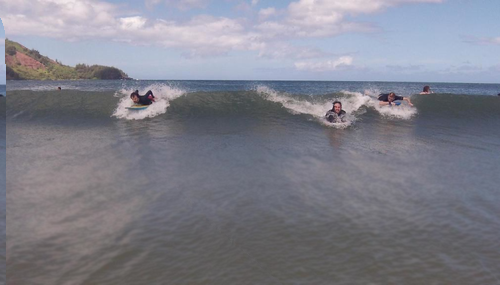
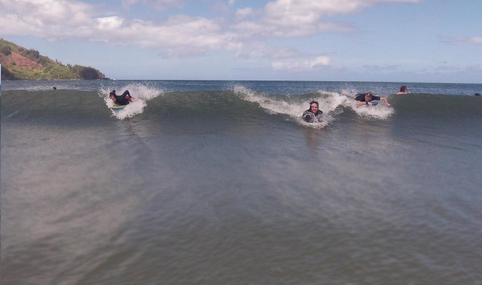
successfully extracted seams, more tests needed

diff --git a/extraction.js b/extraction.js
@@ -35,8 +35,11 @@ module.exports = (function () {
     var resultimg = new png({filterType: 4});
     resultimg.height = img.height;
     resultimg.width = img.width;
+    console.log(img.width, img.height);
+    console.log(img.data.length);
     var data = img.data;
     seam.forEach(function(x, y){
+      console.log(x, y, indexFromCoords(x,y,img.width,img.height));
       data[indexFromCoords(x,y,img.width,img.height)] = 255;
       data[indexFromCoords(x,y,img.width,img.height)] = 0;
       data[indexFromCoords(x,y,img.width,img.height)] = 0;
@@ -60,14 +63,23 @@ module.exports = (function () {
         currentimg.data.push(imgdata.data[i]);
         seamimg.data.push(255);
       }
+      // console.log("CURRENTIMG DAT  A LENGTH: " + currentimg.data.length);
       for(var i = 0; i != numseams; i++){
+        // console.log("LOOP START");
+
         // get seam for current image
         currentmap = getEnergyMap(currentimg);
-        var seam = self.findVerticalSeam(currentmap, imgdata);
+        // console.log("CURRENTIMG DATA LENGTH: " + currentimg.data.length);
+
+        var seam = self.findVerticalSeam(currentmap, currentimg);
+        // console.log("CURRENTIMG DATA LENGTH: " + currentimg.data.length);
+
         // get new image without seam, write seam into seam image
-        console.log(currentimg.width, seamimg.width);
+        // console.log(currentimg.width, seamimg.width);
         extractSeam(currentimg, seam, seamimg, 'v');
-        console.log(currentimg.width, seamimg.width);
+        // console.log("CURRENTIMG DATA LENGTH: " + currentimg.data.length);
+        // // console.log(currentimg.width, seamimg.width);
+        // console.log("LOOP END");
       }
       currentimg.pack().pipe(fs.createWriteStream(outpath || 'out.png'));
       seamimg.pack().pipe(fs.createWriteStream(seamsout || 'seamsout.png'));
@@ -101,17 +113,20 @@ module.exports = (function () {
         } else {
           var best = {sum: -1, dir : null};
           for(var d = -1; d != 2; d++){
-            var current = map[indexFromCoords(x, y, w, h) >> 2] +
-                      map[indexFromCoords(x+d, y-1, w, h) >> 2];
-            if(current < best.sum || best.sum < 0){
-              best.sum = current;
-              best.dir = d;
-            }
+            // if((x > 0 && d !== -1) || (x < w-1 && d !== 1)){
+              var current = map[indexFromCoords(x, y, w, h) >> 2] +
+                        map[indexFromCoords(x+d, y-1, w, h) >> 2];
+              if(current < best.sum || best.sum < 0){
+                best.sum = current;
+                best.dir = d;
+              }
+            // }
           }
           solution.push(best);
         }
       }
     }
+    // console.log(solution);
     return constructVerticalSeam(solution, img);
   };
 
@@ -120,20 +135,30 @@ module.exports = (function () {
   };
 
   var extractSeam = function ( img, seam, simg, flag ) {
+    var w = img.width, h = img.height;
+    var toRemove = [];
     seam.forEach(function( x, y ) {
-      var i = indexFromCoords(x, y, img.width, img.height);
-      var pixel = img.data.splice(i, 4);
-      console.log(i >> 2, x, y, pixel);
+      var i = indexFromCoords(x, y, w, h);
+      var si = indexFromCoords(x, y, simg.width, simg.height);
+      var pixel = [img.data[i], img.data[i+1], img.data[i+2], img.data[i+3]];
+      toRemove.push(i, i+1, i+2, i+3);
+      // console.log(i >> 2, x, y, pixel);
       if(pixel.length !== 4){
-        console.log('weird!');
+        console.log("INDEX: " + i, "COORD: " + x, y);
+        console.log("WIDTH: "+img.width, "HEIGHT: "+img.height, "CURRENTIMG DATA LENGTH: " + img.data.length);
       } else {
-        simg.data[i] = pixel[0];
-        simg.data[i+1] = pixel[1];
-        simg.data[i+2] = pixel[2];
-        simg.data[i+3] = pixel[3];
+        simg.data[si] = pixel[0];
+        simg.data[si+1] = pixel[1];
+        simg.data[si+2] = pixel[2];
+        simg.data[si+3] = pixel[3];
       }
-
       // console.log(simg.data.length);
+    });
+    // toRemove.forEach(function(i){
+    //   img.data.splice(i, 4);
+    // });
+    _.remove(img.data, function(v, i){
+      return _.includes(toRemove, i);
     });
     if(flag === 'v') img.width -= 1;
     else if(flag === 'h') img.height -=1;
@@ -151,11 +176,14 @@ module.exports = (function () {
         best = x;
       }
     }
+    console.log(best);
     seam.unshift(best);
     for(var y = h - 2; y >= 0; y--){
+
       best = best + solution[indexFromCoords(best, y+1, w, h) >> 2].dir;
       seam.unshift(best);
     }
+    // console.log("SEAM START ==========", seam, "SEAM END===========");
     return seam;
   };
 
